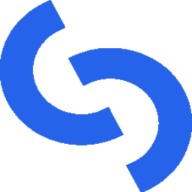
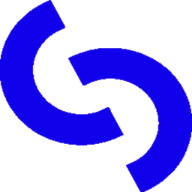
Update brand color to #1201FE across the application
- Changed primary brand color from `#2563EB` (blue) to `#1201FE` in CSS variables, design documentation, and various components for consistency.
- Updated theme color in the site web manifest and layout to reflect the new brand color.
- Replaced color values in styles and components, including assessment radar and final CTA, to ensure alignment with the new branding.
- Updated PDF generation to utilize the new brand color for better representation in generated documents.

diff --git a/src/app/globals.css b/src/app/globals.css
@@ -50,7 +50,7 @@
   --shadow-elevated: var(--shadow-elevated);
 }
 
-/* Brand blue (#2563EB) + cool neutrals */
+/* Brand blue (#1201FE) + cool neutrals */
 :root {
   --background: oklch(0.99 0.002 250);
   --foreground: oklch(0.18 0.02 260);
@@ -58,33 +58,33 @@
   --card-foreground: oklch(0.18 0.02 260);
   --popover: oklch(1 0 0);
   --popover-foreground: oklch(0.18 0.02 260);
-  /* Skill Bridge brand — #2563EB */
-  --primary: oklch(0.546 0.215 262.88);
-  --primary-foreground: oklch(0.99 0.01 255);
-  --secondary: oklch(0.96 0.02 255);
-  --secondary-foreground: oklch(0.35 0.1 255);
+  /* Skill Bridge brand — #1201FE */
+  --primary: oklch(0.454 0.310 265.4);
+  --primary-foreground: oklch(0.99 0.01 265);
+  --secondary: oklch(0.96 0.03 265);
+  --secondary-foreground: oklch(0.32 0.14 265);
   --muted: oklch(0.96 0.008 250);
   --muted-foreground: oklch(0.48 0.02 260);
-  --accent: oklch(0.95 0.03 255);
-  --accent-foreground: oklch(0.4 0.12 255);
+  --accent: oklch(0.95 0.04 265);
+  --accent-foreground: oklch(0.35 0.16 265);
   --destructive: oklch(0.55 0.22 25);
   --border: oklch(0.91 0.01 250);
   --input: oklch(0.91 0.01 250);
-  --ring: oklch(0.546 0.215 262.88);
-  --chart-1: oklch(0.546 0.215 262.88);
-  --chart-2: oklch(0.65 0.16 250);
-  --chart-3: oklch(0.55 0.14 245);
-  --chart-4: oklch(0.45 0.1 255);
-  --chart-5: oklch(0.35 0.08 260);
+  --ring: oklch(0.454 0.310 265.4);
+  --chart-1: oklch(0.454 0.310 265.4);
+  --chart-2: oklch(0.58 0.22 265);
+  --chart-3: oklch(0.5 0.18 255);
+  --chart-4: oklch(0.4 0.14 270);
+  --chart-5: oklch(0.32 0.1 260);
   --radius: 0.75rem;
   --sidebar: oklch(0.985 0.002 250);
   --sidebar-foreground: oklch(0.18 0.02 260);
-  --sidebar-primary: oklch(0.546 0.215 262.88);
-  --sidebar-primary-foreground: oklch(0.99 0.01 255);
-  --sidebar-accent: oklch(0.95 0.03 255);
-  --sidebar-accent-foreground: oklch(0.4 0.12 255);
+  --sidebar-primary: oklch(0.454 0.310 265.4);
+  --sidebar-primary-foreground: oklch(0.99 0.01 265);
+  --sidebar-accent: oklch(0.95 0.04 265);
+  --sidebar-accent-foreground: oklch(0.35 0.16 265);
   --sidebar-border: oklch(0.91 0.01 250);
-  --sidebar-ring: oklch(0.546 0.215 262.88);
+  --sidebar-ring: oklch(0.454 0.310 265.4);
   --shadow-soft: 0 1px 2px oklch(0.2 0.02 260 / 4%), 0 8px 24px oklch(0.2 0.02 260 / 6%);
   --shadow-elevated: 0 2px 4px oklch(0.2 0.02 260 / 4%), 0 16px 40px oklch(0.2 0.02 260 / 10%);
 }
@@ -96,32 +96,32 @@
   --card-foreground: oklch(0.97 0.005 250);
   --popover: oklch(0.18 0.018 260);
   --popover-foreground: oklch(0.97 0.005 250);
-  /* Same brand blue on dark — slightly brighter for contrast */
-  --primary: oklch(0.68 0.18 255);
-  --primary-foreground: oklch(0.18 0.02 255);
-  --secondary: oklch(0.24 0.04 255);
-  --secondary-foreground: oklch(0.97 0.01 255);
+  /* Same hue as #1201FE — slightly brighter for dark-mode contrast */
+  --primary: oklch(0.58 0.28 265.4);
+  --primary-foreground: oklch(0.99 0.01 265);
+  --secondary: oklch(0.24 0.06 265);
+  --secondary-foreground: oklch(0.97 0.01 265);
   --muted: oklch(0.24 0.02 260);
   --muted-foreground: oklch(0.7 0.015 250);
-  --accent: oklch(0.26 0.05 255);
-  --accent-foreground: oklch(0.92 0.04 255);
+  --accent: oklch(0.26 0.08 265);
+  --accent-foreground: oklch(0.92 0.04 265);
   --destructive: oklch(0.65 0.2 22);
   --border: oklch(1 0 0 / 10%);
   --input: oklch(1 0 0 / 12%);
-  --ring: oklch(0.68 0.18 255);
-  --chart-1: oklch(0.68 0.18 255);
-  --chart-2: oklch(0.65 0.16 250);
-  --chart-3: oklch(0.55 0.14 245);
-  --chart-4: oklch(0.45 0.1 255);
-  --chart-5: oklch(0.35 0.08 260);
+  --ring: oklch(0.58 0.28 265.4);
+  --chart-1: oklch(0.58 0.28 265.4);
+  --chart-2: oklch(0.58 0.22 265);
+  --chart-3: oklch(0.5 0.18 255);
+  --chart-4: oklch(0.4 0.14 270);
+  --chart-5: oklch(0.32 0.1 260);
   --sidebar: oklch(0.18 0.018 260);
   --sidebar-foreground: oklch(0.97 0.005 250);
-  --sidebar-primary: oklch(0.68 0.18 255);
-  --sidebar-primary-foreground: oklch(0.18 0.02 255);
-  --sidebar-accent: oklch(0.26 0.05 255);
-  --sidebar-accent-foreground: oklch(0.92 0.04 255);
+  --sidebar-primary: oklch(0.58 0.28 265.4);
+  --sidebar-primary-foreground: oklch(0.99 0.01 265);
+  --sidebar-accent: oklch(0.26 0.08 265);
+  --sidebar-accent-foreground: oklch(0.92 0.04 265);
   --sidebar-border: oklch(1 0 0 / 10%);
-  --sidebar-ring: oklch(0.68 0.18 255);
+  --sidebar-ring: oklch(0.58 0.28 265.4);
   --shadow-soft: 0 1px 2px oklch(0 0 0 / 20%), 0 8px 24px oklch(0 0 0 / 30%);
   --shadow-elevated: 0 2px 4px oklch(0 0 0 / 25%), 0 16px 40px oklch(0 0 0 / 40%);
 }

diff --git a/src/components/shared/final-cta.tsx b/src/components/shared/final-cta.tsx
@@ -20,7 +20,7 @@ export function FinalCTA({
         <FadeIn>
           <div className="relative overflow-hidden rounded-3xl border border-border bg-card px-6 py-14 text-center shadow-soft sm:px-12 md:py-20">
             <div
-              className="pointer-events-none absolute inset-0 bg-[radial-gradient(ellipse_at_top,_oklch(0.546_0.215_262.88_/_0.14),_transparent_55%)] dark:bg-[radial-gradient(ellipse_at_top,_oklch(0.68_0.18_255_/_0.2),_transparent_55%)]"
+              className="pointer-events-none absolute inset-0 bg-[radial-gradient(ellipse_at_top,_oklch(0.454_0.310_265.4_/_0.14),_transparent_55%)] dark:bg-[radial-gradient(ellipse_at_top,_oklch(0.58_0.28_265.4_/_0.2),_transparent_55%)]"
               aria-hidden
             />
             <div className="relative mx-auto max-w-2xl">

diff --git a/src/components/eligibility/assessment-radar.tsx b/src/components/eligibility/assessment-radar.tsx
@@ -97,8 +97,8 @@ export function AssessmentRadar({ items, className }: Props) {
         })}
         <polygon
           points={dataPolygon}
-          fill="oklch(0.546 0.215 262.88 / 0.18)"
-          stroke="oklch(0.546 0.215 262.88)"
+          fill="oklch(0.454 0.310 265.4 / 0.18)"
+          stroke="oklch(0.454 0.310 265.4)"
           strokeWidth="2"
         />
         {items.map((item, i) => {

diff --git a/src/app/layout.tsx b/src/app/layout.tsx
@@ -21,8 +21,8 @@ const siteUrl = company.website;
 
 export const viewport: Viewport = {
   themeColor: [
-    { media: "(prefers-color-scheme: light)", color: "#2563EB" },
-    { media: "(prefers-color-scheme: dark)", color: "#2563EB" },
+    { media: "(prefers-color-scheme: light)", color: "#1201FE" },
+    { media: "(prefers-color-scheme: dark)", color: "#1201FE" },
   ],
 };
 

diff --git a/src/lib/build-assessment-pdf.ts b/src/lib/build-assessment-pdf.ts
@@ -21,7 +21,7 @@ const PAGE: [number, number] = [595.28, 841.89]; // A4
 const MARGIN = 44;
 const CONTENT_WIDTH = PAGE[0] - MARGIN * 2;
 
-const brand = rgb(0.145, 0.388, 0.922); // #2563EB
+const brand = rgb(0.0706, 0.0039, 0.9961); // #1201FE
 const ink = rgb(0.09, 0.09, 0.09);
 const muted = rgb(0.38, 0.38, 0.4);
 const soft = rgb(0.96, 0.96, 0.97);
